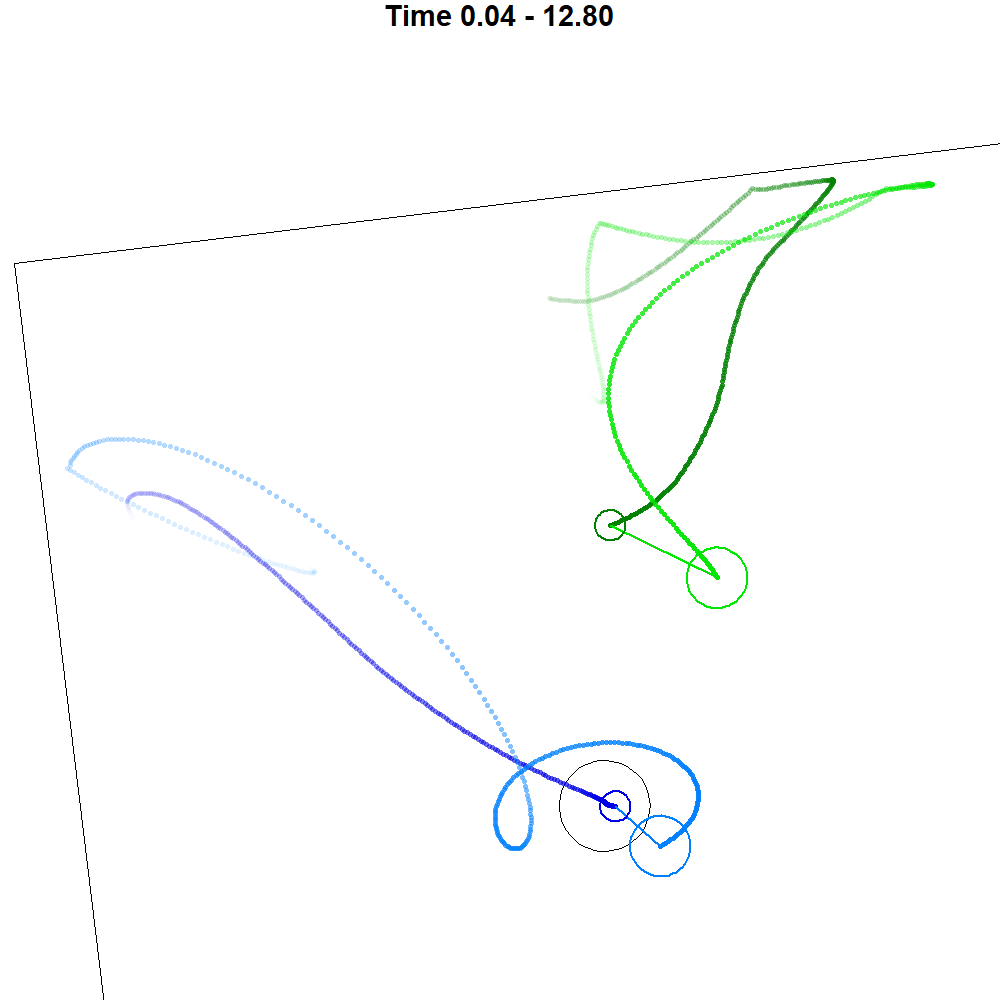
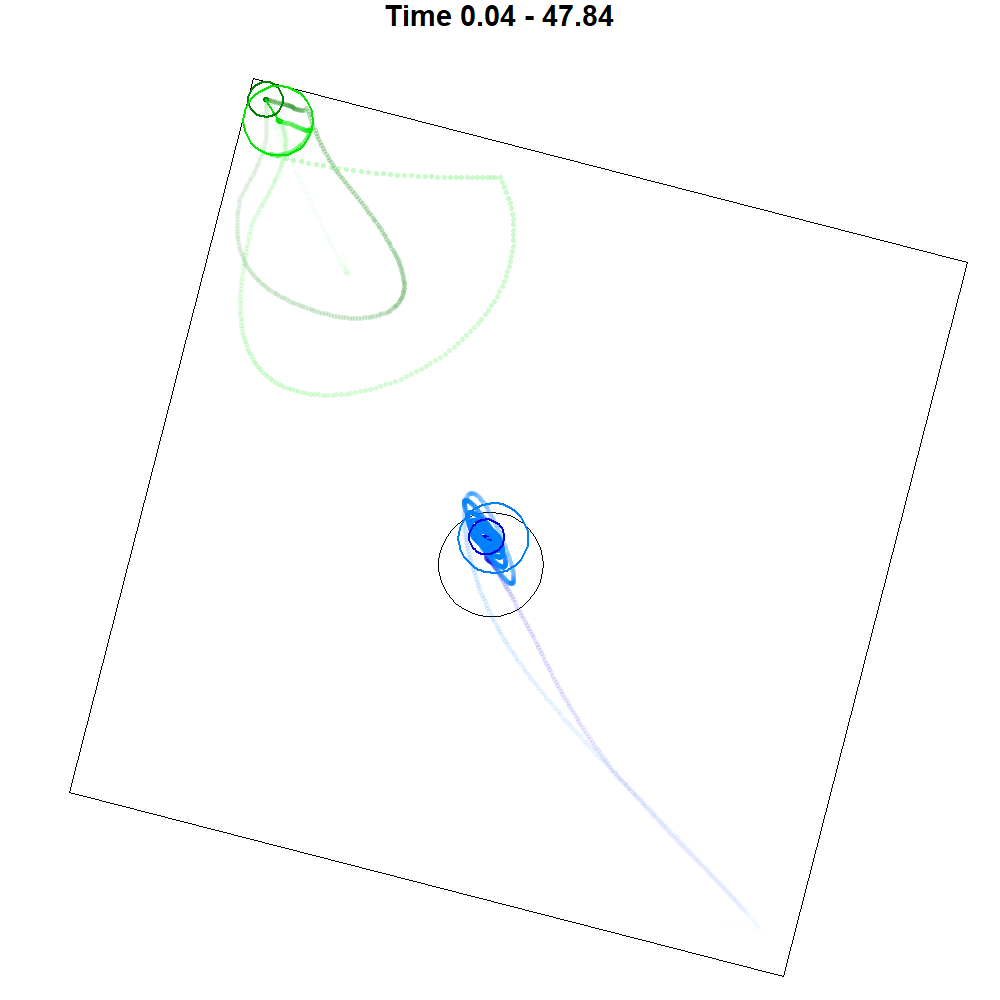
reward

diff --git a/guard/generator.py b/guard/generator.py
@@ -62,7 +62,16 @@ class DataGenerator:
         a0p_local = self.box_offset + (radiusColumn - self.agent0.radius) * (1 - 2 * torch.rand(n, 2))
         a1p_local = self.box_offset + (radiusColumn - self.agent1.radius) * (1 - 2 * torch.rand(n, 2))
         ring_radius = self.ringSize - self.agent1.radius
-        a1p_local = torch.where(torch.rand(n,1) < 0.5, get_random_vectors(n, ring_radius), a1p_local)
+        # Oversample charging states
+        a1p_inside = get_random_vectors(n, ring_radius)
+        a1p_local = torch.where(torch.rand(n,1) < 0.5, a1p_inside, a1p_local)
+        # Oversample corner states
+        r_far = radiusColumn * 0.9  # (n, 1)
+        far0_local = self.box_offset + torch.sign(torch.rand(n,2)-0.5) * r_far
+        far1_local = self.box_offset + torch.sign(torch.rand(n,2)-0.5) * r_far
+        use_far = torch.rand(n, 1) < 0.2
+        a0p_local = torch.where(use_far, far0_local, a0p_local)
+        a1p_local = torch.where(use_far, far1_local, a1p_local)
         blade_bound = radiusColumn - self.blade0.radius  # (n,1)
         b0_max = torch.min(a0p_local + 65, self.box_offset + blade_bound)
         b0_min = torch.max(a0p_local - 65, self.box_offset - blade_bound)
@@ -84,12 +93,32 @@ class DataGenerator:
         self.world.charge = self.charge_target * torch.rand(n,1)
         self.update()
 
+    def reset_custom(self):
+        self.reset()
+        r_val = (self.radius[0] - self.agent0.radius).item() * 0.9
+        a0p_local = self.box_offset[0] + torch.tensor([r_val, r_val])
+        a1p_local = self.box_offset[0] + torch.tensor([-r_val, -r_val])
+        self.agent0.position[0] = torch.einsum('ij,j->i', self.rotation[0], a0p_local)
+        self.agent1.position[0] = torch.einsum('ij,j->i', self.rotation[0], a1p_local)
+        self.agent0.velocity[0] = torch.zeros(2)
+        self.agent1.velocity[0] = torch.zeros(2)
+        blade_bound = (self.radius[0] - self.blade0.radius).squeeze()
+        b0_max = torch.min(a0p_local + 65, self.box_offset[0] + blade_bound)
+        b0_min = torch.max(a0p_local - 65, self.box_offset[0] - blade_bound)
+        b1_max = torch.min(a1p_local + 65, self.box_offset[0] + blade_bound)
+        b1_min = torch.max(a1p_local - 65, self.box_offset[0] - blade_bound)
+        self.blade0.position[0] = torch.einsum('ij,j->i', self.rotation[0], b0_min + (b0_max - b0_min) * torch.rand(2))
+        self.blade1.position[0] = torch.einsum('ij,j->i', self.rotation[0], b1_min + (b1_max - b1_min) * torch.rand(2))
+        self.world.charge[0] = torch.zeros(1)
+        self.update()
+
     def update(self):
         self.state = get_simulation_state(self.world)
         self.gap0 = torch.norm(self.agent0.position-self.blade1.position,p=2,dim=1,keepdim=True)
         self.gap1 = torch.norm(self.agent1.position-self.blade0.position,p=2,dim=1,keepdim=True)
         self.life0 = torch.where(self.gap0 > 15, 1, 0).to(physics_dtype)
         self.life1 = torch.where(self.gap1 > 15, 1, 0).to(physics_dtype)
+        center_dist0 = torch.norm(self.agent0.position, p=2, dim=1, keepdim=True)
         center_dist1 = torch.norm(self.agent1.position, p=2, dim=1, keepdim=True)
         charging = center_dist1 < self.ringSize - self.agent1.radius
         self.world.charge = torch.where(charging, self.world.charge + self.world.time_step, 0)
@@ -99,8 +128,8 @@ class DataGenerator:
         self.world.complete = victory | defeat
         ongoing = ~self.world.complete
         charge_share = self.world.charge / self.charge_target
-        ringReward = center_dist1 - 50 * charge_share - 50 * charging
-        completeReward = 100 * victory - 100 * defeat
+        ringReward = center_dist1 - 0.5*center_dist0 - 50 * charge_share - 50 * charging
+        completeReward = 300 * victory - 300 * defeat
         self.reward = torch.where(ongoing, ringReward, completeReward)
 
     def act(self, horizon: int):

diff --git a/guard/game.py b/guard/game.py
@@ -98,16 +98,7 @@ class Game(arcade.Window):
             self.paused = True
             self.reset_log_file()
         if symbol == arcade.key.T:
-            self.generator.reset()
-            r_val = (self.generator.radius[0] - self.generator.agent0.radius).item() * 0.9
-            a0p_local = self.generator.box_offset[0] + torch.tensor([r_val, r_val])
-            a1p_local = self.generator.box_offset[0] + torch.tensor([-r_val, -r_val])
-            self.generator.agent0.position[0] = torch.einsum('ij,j->i', self.generator.rotation[0], a0p_local)
-            self.generator.agent1.position[0] = torch.einsum('ij,j->i', self.generator.rotation[0], a1p_local)
-            self.generator.agent0.velocity[0] = torch.zeros(2)
-            self.generator.agent1.velocity[0] = torch.zeros(2)
-            self.generator.world.charge[0] = torch.zeros(1)
-            self.generator.update()
+            self.generator.reset_custom()
             self.frame_counter = 0
             self.paused = True
             self.reset_log_file()

diff --git a/guard/train.py b/guard/train.py
@@ -56,7 +56,7 @@ quality_history = []
 cuda_generator = torch.Generator(device='cuda')
 data_generator = DataGenerator(old_value_model, sim_count, step_count, time_step)
 last_log_time = time.perf_counter()
-quality_threshold = 0.93
+quality_threshold = 0.98
 quality = 0
 
 print('Training...')